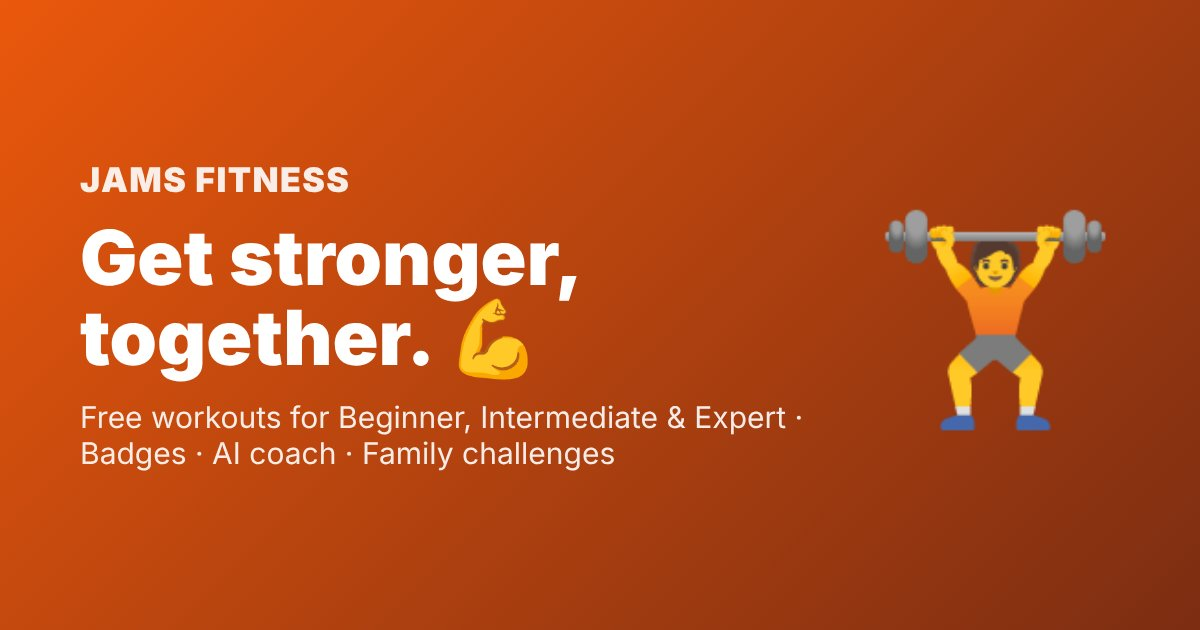
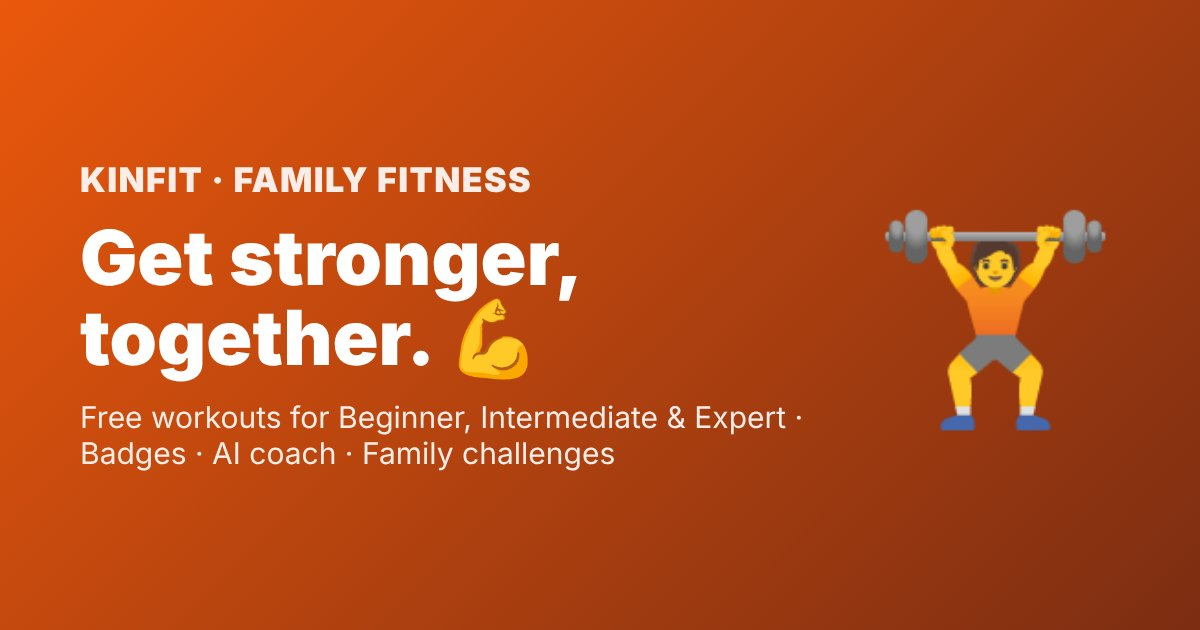
Rename app to KinFit; credit the JAMS family on the About page
- All visible branding: titles, logo, Home Screen name, home page, privacy policy,
  share cards, report, calendar reminders, Coach prompt, share preview image
- About page: 'Developed by the JAMS family' card explaining the name
- Internal storage keys unchanged so nobody loses data

Claude-Session: https://claude.ai/code/session_01SBgUYTNiW84B2bL3VRUQMT

Changed region(s): [[0.0617, 0.2413, 0.4625, 0.3016]]

diff --git a/js/extras.js b/js/extras.js
@@ -1,4 +1,4 @@
-/* JAMS Fitness · 6-month phases, share cards, stretching, tour, display settings, monthly report, feedback, backup history. */
+/* KinFit · 6-month phases, share cards, stretching, tour, display settings, monthly report, feedback, backup history. */
 /* =========================================================
    System upgrades: share cards, tour, 6-month phases, stretching,
    display settings, monthly report, feedback, backup history.
@@ -54,10 +54,10 @@ async function shareImage(opts){
   st.forEach(([v,l],i)=>{const x=x0+i*(bw+gap);g.fillStyle='rgba(255,255,255,.14)';g.beginPath();g.roundRect?g.roundRect(x,590,bw,200,32):g.rect(x,590,bw,200);g.fill();
     g.textAlign='center';g.fillStyle='#fff';g.font=font('900',84);g.fillText(String(v),x+bw/2,700);g.font=font('600',34);g.fillStyle='rgba(255,255,255,.85)';g.fillText(l,x+bw/2,758)});
   let y=880;(opts.lines||[]).slice(0,4).forEach(t=>{center(t.length>44?t.slice(0,43)+'…':t,y,'700',42);y+=66});
-  center('JAMS FITNESS',H-110,'900',44);center(location.host,H-58,'600',30,'rgba(255,255,255,.7)');
+  center('KINFIT',H-110,'900',44);center(location.host,H-58,'600',30,'rgba(255,255,255,.7)');
   const blob=await new Promise(r=>c.toBlob(r,'image/png'));
   const file=new File([blob],'jams-fitness.png',{type:'image/png'});
-  try{if(navigator.canShare&&navigator.canShare({files:[file]})){await navigator.share({files:[file],text:opts.text||'My workout on JAMS Fitness 💪'});return}}catch(e){if(e&&e.name==='AbortError')return}
+  try{if(navigator.canShare&&navigator.canShare({files:[file]})){await navigator.share({files:[file],text:opts.text||'My workout on KinFit 💪'});return}}catch(e){if(e&&e.name==='AbortError')return}
   const a=document.createElement('a');a.href=URL.createObjectURL(blob);a.download='jams-fitness.png';document.body.appendChild(a);a.click();a.remove();toast('Image saved');
 }
 let lastDone=null;
@@ -65,13 +65,13 @@ function shareWorkout(){
   const d=lastDone||{};
   shareImage({big:d.prs&&d.prs.length?'🏆':'💪',title:`${profile.name||'I'} ${profile.name?'crushed':'crushed'} it!`,sub:`${d.e||'💪'} ${d.title||'Workout'} done`,
     stats:[[d.sets||0,'sets'],[d.mins||0,'minutes'],[weekStreak(),'week streak']],
-    lines:[...(d.prs||[]).map(p=>'⭐ New record: '+p),...(d.badges||[]).map(b=>`${b.e} Badge: ${b.n}`)],text:`${profile.name||'I'} just finished ${d.title||'a workout'} on JAMS Fitness 💪`});
+    lines:[...(d.prs||[]).map(p=>'⭐ New record: '+p),...(d.badges||[]).map(b=>`${b.e} Badge: ${b.n}`)],text:`${profile.name||'I'} just finished ${d.title||'a workout'} on KinFit 💪`});
 }
 function shareProgress(){
   const j=getJournal(),ds=workoutDates(j),ws=weekStart(new Date()),wk=ds.filter(d=>parseIso(d)>=ws).length,rec=recordsTable(j);
   const best=Object.entries(rec).filter(([n,r])=>r.w).sort((a,b)=>b[1].w-a[1].w).slice(0,2).map(([n,r])=>`🏋 ${n}: ${round1(r.w)} ${profile.unit}`);
   shareImage({big:'🔥',title:`${profile.name||'My'}${profile.name?"'s":''} progress`,sub:`${lvl().emoji} ${lvl().name} level`,stats:[[ds.length,'workouts'],[weekStreak(),'week streak'],[earnedBadges().length,'badges']],
-    lines:[`📅 ${wk} active ${wk===1?'day':'days'} this week`,...best],text:'My progress on JAMS Fitness 🔥'});
+    lines:[`📅 ${wk} active ${wk===1?'day':'days'} this week`,...best],text:'My progress on KinFit 🔥'});
 }
 
 /* ---------- Stretching & mobility ---------- */
@@ -173,7 +173,7 @@ function renderReport(v){
     ${acts.length?`<div class="card stack"><h3>🏃 Activities</h3>${Object.entries(acts.reduce((m,e)=>(m[e.exercise]=(m[e.exercise]||0)+(e.minutes||0),m),{})).map(([n,m])=>`<div class="row between"><span>${esc(n)}</span><b>${m} min</b></div>`).join('')}</div>`:''}
     ${B.length>1?`<div class="card stack"><h3>⚖ Body weight</h3><p>${round1(toUnit(B[0].w,B[0].unit))} → <b>${round1(toUnit(B[B.length-1].w,B[B.length-1].unit))} ${profile.unit}</b></p></div>`:''}
     <div class="card stack"><h3>🏅 Badges so far</h3><p>${BADGES.filter(b=>earnedBadges().includes(b.id)).map(b=>b.e+' '+b.n).join(' · ')||'None yet'}</p></div>
-    <p class="small muted center">Made with JAMS Fitness · ${location.host}</p>
+    <p class="small muted center">Made with KinFit · ${location.host}</p>
     <button class="btn noprint" id="rprint">🖨 Print or save as PDF</button>
     <p class="small muted center noprint">On iPhone: tap Print, then pinch out on the preview and tap Share → Save to Files.</p>
   </div>`;
@@ -190,7 +190,7 @@ function feedbackSheet(){
   let t='idea';
   const draw=()=>sheet(`<h2>💬 Send feedback</h2>
     <div class="seg">${[['idea','💡 Idea'],['problem','🐞 Problem'],['love','❤ Praise']].map(x=>`<button class="${t===x[0]?'on':''}" data-fbt="${x[0]}">${x[1]}</button>`).join('')}</div>
-    <textarea class="txt area" id="fbm" rows="5" maxlength="1000" placeholder="${t==='problem'?'What happened? What were you trying to do?':t==='idea'?'What would make JAMS better for you?':'What do you like?'}">${esc(feedbackSheet.draft||'')}</textarea>
+    <textarea class="txt area" id="fbm" rows="5" maxlength="1000" placeholder="${t==='problem'?'What happened? What were you trying to do?':t==='idea'?'What would make KinFit better for you?':'What do you like?'}">${esc(feedbackSheet.draft||'')}</textarea>
     <input class="txt small-in" id="fbc" maxlength="80" placeholder="Email (optional, only if you'd like a reply)" autocomplete="email">
     <p class="small muted">Kids: ask a grown-up before sharing an email. Please don't include other personal details.</p>
     <button class="btn" id="fbsend">Send</button><button class="btn ghost" id="cancel">Cancel</button>`,()=>{

diff --git a/privacy.html b/privacy.html
@@ -3,7 +3,7 @@
 <head>
 <meta charset="UTF-8">
 <meta name="viewport" content="width=device-width, initial-scale=1.0">
-<title>Privacy policy · JAMS Fitness</title>
+<title>Privacy policy · KinFit</title>
 <link rel="icon" href="icon.svg" type="image/svg+xml">
 <style>
 :root{--bg:#f5f7fb;--card:#fff;--text:#0f172a;--muted:#64748b;--line:#e5e9f2;--brand:#2563eb}
@@ -19,7 +19,7 @@ a{color:var(--brand)}ul{padding-left:22px}li{margin:6px 0}
 </head>
 <body>
 <main>
-  <a class="back" href="./">← Back to JAMS Fitness</a>
+  <a class="back" href="./">← Back to KinFit</a>
   <h1>Privacy policy 🔒</h1>
   <p class="muted">Last updated: October 30, 2026</p>
 
@@ -34,7 +34,7 @@ a{color:var(--brand)}ul{padding-left:22px}li{margin:6px 0}
   </div>
 
   <h2>What is stored on your device</h2>
-  <p>JAMS Fitness saves your people (names or nicknames, avatars, levels and settings), workouts, activities, badges, body measurements, chat history with Coach and progress photos in your browser's storage on your device. You can delete it at any time from <b>Me → Erase everything on this phone</b>. Deleting the app's website data in your browser settings also removes it.</p>
+  <p>KinFit saves your people (names or nicknames, avatars, levels and settings), workouts, activities, badges, body measurements, chat history with Coach and progress photos in your browser's storage on your device. You can delete it at any time from <b>Me → Erase everything on this phone</b>. Deleting the app's website data in your browser settings also removes it.</p>
 
   <h2>Progress photos</h2>
   <p>Progress photos are optional and turned off by default. They are stored only on the device where you took them. They are <b>never uploaded</b>, never included in sync and never sent to Coach.</p>
@@ -58,7 +58,7 @@ a{color:var(--brand)}ul{padding-left:22px}li{margin:6px 0}
   <p>Reminders are added to your own phone's calendar. The app doesn't store your reminder times on its servers.</p>
 
   <h2>Kids and families</h2>
-  <p>JAMS Fitness is made for families. Children should use it with a parent or guardian, who can set a <b>parent PIN</b> to stop changes to levels, people, sync, body tracking, Coach settings and data. Please use a first name or nickname rather than a full name. Coach gives general fitness tips, not medical advice.</p>
+  <p>KinFit is made for families. Children should use it with a parent or guardian, who can set a <b>parent PIN</b> to stop changes to levels, people, sync, body tracking, Coach settings and data. Please use a first name or nickname rather than a full name. Coach gives general fitness tips, not medical advice.</p>
 
   <h2>Changes and contact</h2>
   <p>If this policy changes, the new version will be posted here with a new date. Questions? Contact the site owner through the project's <a href="https://github.com/jagsrj/WorkoutRoutine">GitHub page</a>.</p>

diff --git a/about.html b/about.html
@@ -3,9 +3,9 @@
 <head>
 <meta charset="UTF-8">
 <meta name="viewport" content="width=device-width, initial-scale=1.0">
-<title>JAMS Fitness: free workouts for the whole family</title>
+<title>KinFit: free family workouts for every level</title>
 <meta name="description" content="Free workout plans for Beginner, Intermediate and Expert. Guided workouts with timers and moving drawings, badges, streaks, a friendly AI coach and family challenges. Works on any phone, no sign-up.">
-<meta property="og:title" content="JAMS Fitness: workouts for the whole family">
+<meta property="og:title" content="KinFit: family workouts for every level">
 <meta property="og:description" content="Guided workouts for every level, badges, a friendly AI coach and family challenges. Free, no sign-up.">
 <meta property="og:image" content="og.jpg">
 <meta property="og:type" content="website">
@@ -40,7 +40,7 @@ footer{margin-top:60px;color:var(--muted);font-size:15px;text-align:center}foote
 </head>
 <body>
 <main>
-  <header><div class="logo"><img src="icon.svg" alt="">JAMS FITNESS</div><a class="small" href="./">Open the app →</a></header>
+  <header><div class="logo"><img src="icon.svg" alt="">KINFIT</div><a class="small" href="./">Open the app →</a></header>
 
   <section class="hero">
     <div>
@@ -79,7 +79,9 @@ footer{margin-top:60px;color:var(--muted);font-size:15px;text-align:center}foote
 
   <div style="text-align:center;margin-top:50px"><a class="cta" href="./">Start your first workout 🚀</a></div>
 
-  <footer>JAMS Fitness · <a href="privacy.html">Privacy policy</a> · General fitness guidance, not medical advice. Kids should train with an adult nearby.</footer>
+  <div class="card" style="margin-top:50px;text-align:center"><div class="e">👨👩👧👦</div><h3>Developed by the JAMS family 💙</h3><p><b>KinFit</b> means fitness for your kin, your family. It was built at home by a family who wanted one simple app that works for everyone, from first push-ups to heavy lifts.</p></div>
+
+  <footer>KinFit · Developed by the JAMS family 💙 · <a href="privacy.html">Privacy policy</a> · General fitness guidance, not medical advice. Kids should train with an adult nearby.</footer>
 </main>
 </body>
 </html>

diff --git a/js/me.js b/js/me.js
@@ -1,4 +1,4 @@
-/* JAMS Fitness · Me / Settings screen and app start-up. */
+/* KinFit · Me / Settings screen and app start-up. */
 /* ---------- Me / Settings ---------- */
 function renderMe(v){
   const others=DB.list.filter(p=>p.id!==profile.id);
@@ -57,7 +57,7 @@ function renderMe(v){
       <label class="btn secondary" style="cursor:pointer">⬆ Restore from backup<input type="file" id="imp" accept="application/json,.json" hidden></label>
       ${others.length?`<button class="btn danger" id="rmp">Remove ${esc(profile.name||'this person')} from this phone</button>`:''}
       <button class="btn danger" id="reset">Erase everything on this phone</button></div>
-    <p class="small muted center">JAMS Fitness · Made for every level 💙<br><a href="privacy.html" style="color:var(--lvl)">Privacy policy</a></p>
+    <p class="small muted center">KinFit · Made for every level 💙<br><a href="privacy.html" style="color:var(--lvl)">Privacy policy</a></p>
   </div>`;
   v.querySelectorAll('[data-pid]').forEach(b=>b.onclick=()=>{if(b.dataset.pid!==profile.id)switchProfile(b.dataset.pid)});
   $('#addp').onclick=addPerson;
@@ -143,7 +143,7 @@ function joinSheet(after){
     };
   });
 }
-const KC_USER='JAMS Fitness';
+const KC_USER='KinFit';
 function saveCodeSheet(){
   if(!syncCfg.code)return;
   sheet(`<h2>🔑 Save your recovery code</h2>
@@ -204,7 +204,7 @@ function importBackup(e){
       const have=new Set((j[k]||[]).map(x=>String(x.id)));
       incoming[k].forEach(en=>{if(en&&typeof en.exercise==='string'&&Array.isArray(en.sets)&&!have.has(String(en.id))){(j[k]=j[k]||[]).push(en);added++}})});
     setJournal(j);toast(`Restored ${added} entries ✅`);syncNow(true);
-  }catch(err){toast('That file is not a JAMS backup')}};
+  }catch(err){toast('That file is not a KinFit backup')}};
   r.readAsText(f);
 }
 

diff --git a/js/store.js b/js/store.js
@@ -1,4 +1,4 @@
-/* JAMS Fitness · Storage, people, data cleaning, helpers, badges and screen router. */
+/* KinFit · Storage, people, data cleaning, helpers, badges and screen router. */
 /* ---------- Storage & people (profiles) ----------
    Each person has their own level, settings and history. The first person ("p1") keeps
    the original 'workout_journal' key, so history from earlier versions stays. */
@@ -148,7 +148,7 @@ function render(){
   if(onb) return renderOnboard(v);
   ({today:renderToday,workout:renderWorkout,library:renderLibrary,progress:renderProgress,me:renderMe,ask:renderAsk,report:renderReport}[route]||renderToday)(v);
 }
-const logo=()=>`<div class="logo"><svg viewBox="0 0 64 64" aria-hidden="true"><rect width="64" height="64" rx="16" fill="var(--lvl)"/><path d="M14 27h6v10h-6zM44 27h6v10h-6zM20 23h5v18h-5zM39 23h5v18h-5zM25 30h14v4H25z" fill="#fff"/></svg>JAMS FITNESS</div>`;
+const logo=()=>`<div class="logo"><svg viewBox="0 0 64 64" aria-hidden="true"><rect width="64" height="64" rx="16" fill="var(--lvl)"/><path d="M14 27h6v10h-6zM44 27h6v10h-6zM20 23h5v18h-5zM39 23h5v18h-5zM25 30h14v4H25z" fill="#fff"/></svg>KINFIT</div>`;
 const topbar=(right='')=>`<div class="topbar">${logo()}${right}</div>`;
 const levelPill=()=>{const n=weekStreak();return `<div class="row" style="gap:6px"><button class="pill streakpill ${n?'':'off'}" data-go="progress" aria-label="${n}-week streak">🔥 ${n}</button><button class="pill" data-who aria-label="Switch person"><span class="pname">${esc(profile.avatar||'🙂')} ${esc(profile.name||'Me')}</span></button></div>`};
 function streakCard(){

diff --git a/index.html b/index.html
@@ -4,12 +4,13 @@
 <meta charset="UTF-8">
 <meta name="viewport" content="width=device-width, initial-scale=1.0, viewport-fit=cover">
 <meta name="apple-mobile-web-app-capable" content="yes">
+<meta name="apple-mobile-web-app-title" content="KinFit">
 <meta name="mobile-web-app-capable" content="yes">
 <meta name="apple-mobile-web-app-status-bar-style" content="default">
 <meta name="theme-color" content="#2563eb">
-<meta name="description" content="JAMS Fitness — simple workout plans for Beginner, Intermediate and Expert. Find your level, follow the plan, track your progress.">
-<title>JAMS Fitness — Workouts for every level</title>
-<meta property="og:title" content="JAMS Fitness: workouts for the whole family">
+<meta name="description" content="KinFit — simple workout plans for Beginner, Intermediate and Expert. Find your level, follow the plan, track your progress.">
+<title>KinFit — Family workouts for every level</title>
+<meta property="og:title" content="KinFit: family workouts for every level">
 <meta property="og:description" content="Free workout plans for Beginner, Intermediate and Expert, with guided workouts, badges, a friendly AI coach and family challenges.">
 <meta property="og:image" content="og.jpg">
 <meta property="og:type" content="website">

diff --git a/js/screens.js b/js/screens.js
@@ -1,4 +1,4 @@
-/* JAMS Fitness · Onboarding, Today, guided timer, workout, rest timer and Progress screens. */
+/* KinFit · Onboarding, Today, guided timer, workout, rest timer and Progress screens. */
 /* ---------- Onboarding ---------- */
 let ob={step:0,answers:[],name:'',avatar:'🙂'};
 function renderOnboard(v){
@@ -17,7 +17,7 @@ function renderOnboard(v){
       <button class="btn" id="start">Let's go! 🚀</button>
       <button class="btn ghost" id="pick">I already know my level</button>
       <p class="small muted center">🔒 Your workouts stay on your phone. <a href="privacy.html" style="color:var(--lvl)">Privacy</a> · <a href="about.html" style="color:var(--lvl)">About</a></p>
-      <button class="link" id="joinsync" style="width:100%">☁ Used JAMS before? Restore with your recovery code</button>
+      <button class="link" id="joinsync" style="width:100%">☁ Used KinFit before? Restore with your recovery code</button>
     </div>`;
     $('#joinsync').onclick=()=>joinSheet();
     $('#start').onclick=()=>{ob.step=1;render()};

diff --git a/functions/api/calendar.js b/functions/api/calendar.js
@@ -24,13 +24,13 @@ export function onRequestGet({ request }) {
   const site = url.origin;
   const title = `💪 Workout time${name ? ' for ' + name : ''}`;
   const ics = [
-    'BEGIN:VCALENDAR', 'VERSION:2.0', 'PRODID:-//JAMS Fitness//Reminders//EN', 'CALSCALE:GREGORIAN', 'METHOD:PUBLISH',
+    'BEGIN:VCALENDAR', 'VERSION:2.0', 'PRODID:-//KinFit//Reminders//EN', 'CALSCALE:GREGORIAN', 'METHOD:PUBLISH',
     'BEGIN:VEVENT',
     `UID:jams-${days.join('')}-${t}-${Date.now()}@jams-fitness`,
     `DTSTAMP:${stamp}`, `DTSTART:${local}`, 'DURATION:PT45M',
     `RRULE:FREQ=WEEKLY;BYDAY=${days.join(',')}`,
     `SUMMARY:${title}`,
-    `DESCRIPTION:Open JAMS Fitness: ${site}`, `URL:${site}`,
+    `DESCRIPTION:Open KinFit: ${site}`, `URL:${site}`,
     'BEGIN:VALARM', 'ACTION:DISPLAY', `DESCRIPTION:${title}`, 'TRIGGER:PT0M', 'END:VALARM',
     'END:VEVENT', 'END:VCALENDAR', '',
   ].join('\r\n');

diff --git a/sw.js b/sw.js
@@ -1,7 +1,7 @@
-// JAMS Fitness service worker (bump CACHE when adding or renaming files): lets the app open without internet.
+// KinFit service worker (bump CACHE when adding or renaming files): lets the app open without internet.
 // Everything loads fresh from the network when online (so updates show right away)
 // and falls back to the saved copy when offline. /api/ calls are never cached.
-const CACHE = 'jams-v10';
+const CACHE = 'jams-v12';
 // Cloudflare serves the app at ./ (index.html redirects there), so the page is cached under ./
 const JS = ['errors', 'data', 'store', 'screens', 'sync', 'coach', 'photos', 'features', 'extras', 'me'].map(n => `js/${n}.js`);
 const SHELL = ['./', ...JS, 'icon.svg', 'manifest.webmanifest'];

diff --git a/functions/api/chat.js b/functions/api/chat.js
@@ -14,7 +14,7 @@ const MODELS = ['@cf/meta/llama-3.1-8b-instruct-fast', '@cf/meta/llama-3.3-70b-i
 const MAX_MSG_CHARS = 600;
 const MAX_HISTORY = 8;
 
-const SYSTEM = `You are "Coach", the friendly helper inside JAMS Fitness, a workout app that kids (as young as 12), teens and adults use.
+const SYSTEM = `You are "Coach", the friendly helper inside KinFit, a workout app that kids (as young as 12), teens and adults use.
 
 How to answer:
 - Use simple words a 12-year-old understands. Short sentences. Be warm and encouraging.

diff --git a/js/features.js b/js/features.js
@@ -1,4 +1,4 @@
-/* JAMS Fitness · Workouts library, custom workouts, records, muscle map, plates, activities, body, family, reminders, parent lock. */
+/* KinFit · Workouts library, custom workouts, records, muscle map, plates, activities, body, family, reminders, parent lock. */
 /* =========================================================
    Pro features: custom workouts & exercises, sport plans, PRs, muscle map,
    plate calculator, effort rating, activities, body measurements, voice coach,

diff --git a/js/errors.js b/js/errors.js
@@ -1,4 +1,4 @@
-/* JAMS Fitness · error reporting. Loaded first so problems on people's phones are reported
+/* KinFit · error reporting. Loaded first so problems on people's phones are reported
    (message, file, line, screen, app version, device type only, with no personal data). */
 const APP_VERSION='2026.10.30';
 (()=>{let n=0;
